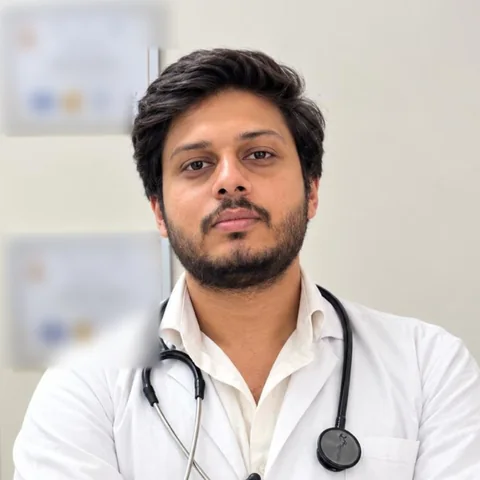
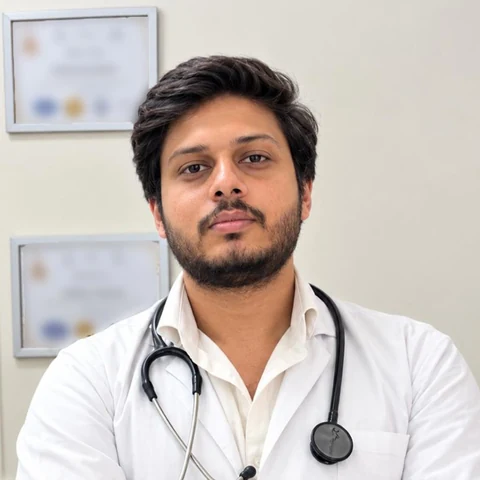
feat(lp): update Dr. Akash photo, custom WhatsApp enquiry message, and 2-doctor grid styling

diff --git a/lp/lp.css b/lp/lp.css
@@ -817,9 +817,10 @@ header {
 
 .team-grid {
   display: grid;
-  grid-template-columns: repeat(auto-fit, minmax(250px, 1fr));
+  grid-template-columns: repeat(auto-fit, minmax(280px, 1fr));
   gap: var(--space-lg);
-  margin-bottom: 50px;
+  max-width: 760px;
+  margin: 0 auto 50px;
 }
 
 .team-member {
@@ -854,8 +855,7 @@ header {
   object-fit: cover;
 }
 
-/* A doctor without a photo on this page (Dr Rahul, 6 Nov 2026): an icon in
-   the same circle, so the three cards stay level. */
+/* Fallback when a doctor has no photo: an icon in the circle. */
 .team-image--icon {
   display: flex;
   align-items: center;

diff --git a/lp/index.php b/lp/index.php
@@ -434,7 +434,7 @@ function lp_modal(string $id, string $badge, string $title, string $subtitle, st
       </div>
       <p class="results-note">Photos of DenceSpot patients. Individual results vary.</p>
       <div class="cta-group">
-        <a href="<?= e(LP_WHATSAPP_URL) ?>" class="btn-primary" rel="noopener" data-track="whatsapp"><i class="fa-brands fa-whatsapp"></i> Ask About Your Case on WhatsApp</a>
+        <a href="<?= e(LP_WHATSAPP_URL) ?>" class="btn-primary" target="_blank" rel="noopener" data-track="whatsapp"><i class="fa-brands fa-whatsapp"></i> Ask About Your Case on WhatsApp</a>
         <a href="<?= e($telHref) ?>" class="btn-call" data-track="call"><i class="fa-solid fa-phone"></i> Talk to Our Team Now</a>
       </div>
     </div>
@@ -491,7 +491,7 @@ function lp_modal(string $id, string $badge, string $title, string $subtitle, st
       <h2>Ready to Plan Your Hair Transplant?</h2>
       <p>Book a consultation at our Gurugram or Rohini clinic and get a written estimate before you decide.</p>
       <div class="cta-group">
-        <a href="<?= e(LP_WHATSAPP_URL) ?>" class="btn-primary" rel="noopener" data-track="whatsapp"><i class="fa-brands fa-whatsapp"></i> Chat With Our Team Now</a>
+        <a href="<?= e(LP_WHATSAPP_URL) ?>" class="btn-primary" target="_blank" rel="noopener" data-track="whatsapp"><i class="fa-brands fa-whatsapp"></i> Chat With Our Team Now</a>
         <a href="<?= e($telHref) ?>" class="btn-call" data-track="call"><i class="fa-solid fa-phone"></i> Call <?= e(LP_PHONE_DISPLAY) ?></a>
       </div>
     </div>
@@ -562,7 +562,7 @@ function lp_modal(string $id, string $badge, string $title, string $subtitle, st
 
   <!-- Floating CTA Button -->
   <div class="floating-cta">
-    <a href="<?= e(LP_WHATSAPP_URL) ?>" rel="noopener" aria-label="WhatsApp" data-track="whatsapp"><i class="fa-brands fa-whatsapp"></i></a>
+    <a href="<?= e(LP_WHATSAPP_URL) ?>" target="_blank" rel="noopener" aria-label="WhatsApp" data-track="whatsapp"><i class="fa-brands fa-whatsapp"></i></a>
     <a href="<?= e($telHref) ?>" aria-label="Call Now" data-track="call"><i class="fa-solid fa-phone"></i></a>
   </div>
 

diff --git a/lp/lp-config.php b/lp/lp-config.php
@@ -34,9 +34,10 @@ const LP_THANK_YOU_URL = '/lp/thank-you/';
  * entities in the JSON-LD keep their own numbers, which must match each
  * clinic's Google Business Profile.
  */
-const LP_PHONE_E164    = PHONE_E164;
-const LP_PHONE_DISPLAY = PHONE_DISPLAY;
-const LP_WHATSAPP_URL  = WHATSAPP_URL;
+const LP_PHONE_E164        = PHONE_E164;
+const LP_PHONE_DISPLAY     = PHONE_DISPLAY;
+const LP_WHATSAPP_MESSAGE  = 'Hello, I would like to explore hair transplant treatment. Please share the details and available options.';
+const LP_WHATSAPP_URL      = 'https://api.whatsapp.com/send/?phone=%2B918178330800&text=Hello%2C%20I%20would%20like%20to%20explore%20hair%20transplant%20treatment.%20Please%20share%20the%20details%20and%20available%20options.';
 
 /** A file in /lp/ with a version query, so a changed file is never served stale. */
 function lp_asset(string $file): string

diff --git a/lp/thank-you/index.php b/lp/thank-you/index.php
@@ -69,7 +69,7 @@ $telHref = 'tel:' . LP_PHONE_E164;
         <div class="ty-hurry">
           <p><b>In a hurry?</b> Message us on WhatsApp for a quicker reply. You can send photos of your hair at the same time.</p>
           <div class="cta-group">
-            <a href="<?= e(LP_WHATSAPP_URL) ?>" class="btn-primary" rel="noopener" data-track="whatsapp"><i class="fa-brands fa-whatsapp"></i> Message on WhatsApp</a>
+            <a href="<?= e(LP_WHATSAPP_URL) ?>" class="btn-primary" target="_blank" rel="noopener" data-track="whatsapp"><i class="fa-brands fa-whatsapp"></i> Message on WhatsApp</a>
             <a href="<?= e($telHref) ?>" class="btn-call" data-track="call"><i class="fa-solid fa-phone"></i> <?= e(LP_PHONE_DISPLAY) ?></a>
           </div>
         </div>
